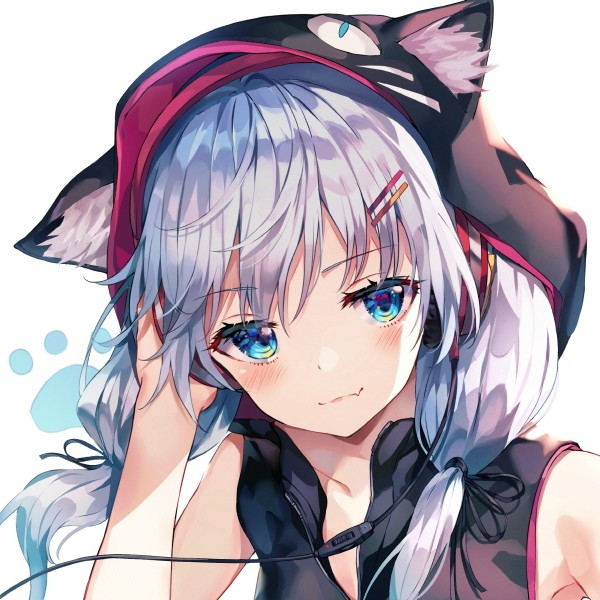
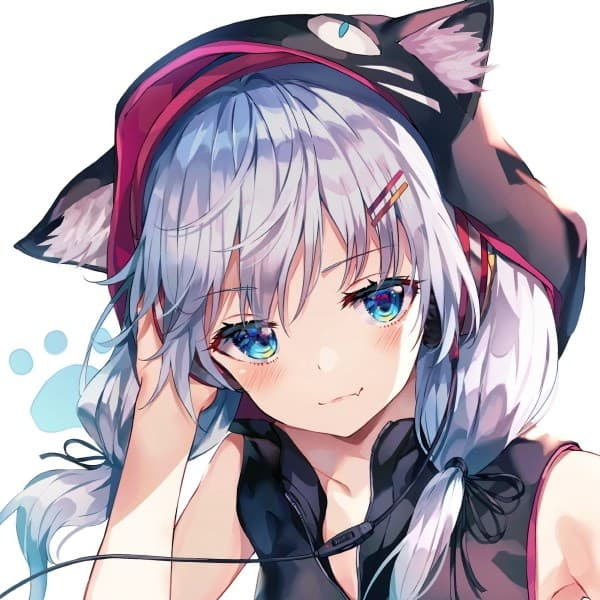
🍱 chore: compress images

Changed region(s): [[0.96, 0.99, 0.99, 1.0], [0.63, 0.51, 0.66, 0.54], [0.42, 0.57, 0.45, 0.6]]

diff --git a/src/.vuepress/config.ts b/src/.vuepress/config.ts
@@ -25,7 +25,7 @@ export default defineConfig({
     ],
     ['meta', { property: 'og:url', content: 'https://nyakku.moe' }],
     ['meta', { property: 'og:site_name', content: 'Notev' }],
-    ['meta', { property: 'og:image', content: '/bg.jpg' }],
+    ['meta', { property: 'og:image', content: '/bg.webp' }],
     ['meta', { property: 'og:description', content: '一个小透明的透明世界' }],
     ['meta', { property: 'og:title', content: 'Notev' }],
     ['link', { rel: 'manifest', href: '/manifest.json' }],
@@ -187,7 +187,7 @@ export default defineConfig({
       // header 的背景，可以使用图片，或者随机变化的图案（geopattern）
       background: {
         // 使用图片的 URL，如果设置了图片 URL，则不会生成随机变化的图案，下面的 useGeo 将失效
-        url: '/bg.jpg',
+        url: '/bg.webp',
       },
       // 是否在 header 显示标题
       showTitle: true,
@@ -208,7 +208,7 @@ export default defineConfig({
       // 卡片 header 的背景，可以使用图片，或者随机变化的图案（geopattern）
       headerBackground: {
         // 使用图片的 URL，如果设置了图片 URL，则不会生成随机变化的图案，下面的 useGeo 将失效
-        url: '/info-bg.jpg',
+        url: '/info-bg.webp',
       },
     },
 
